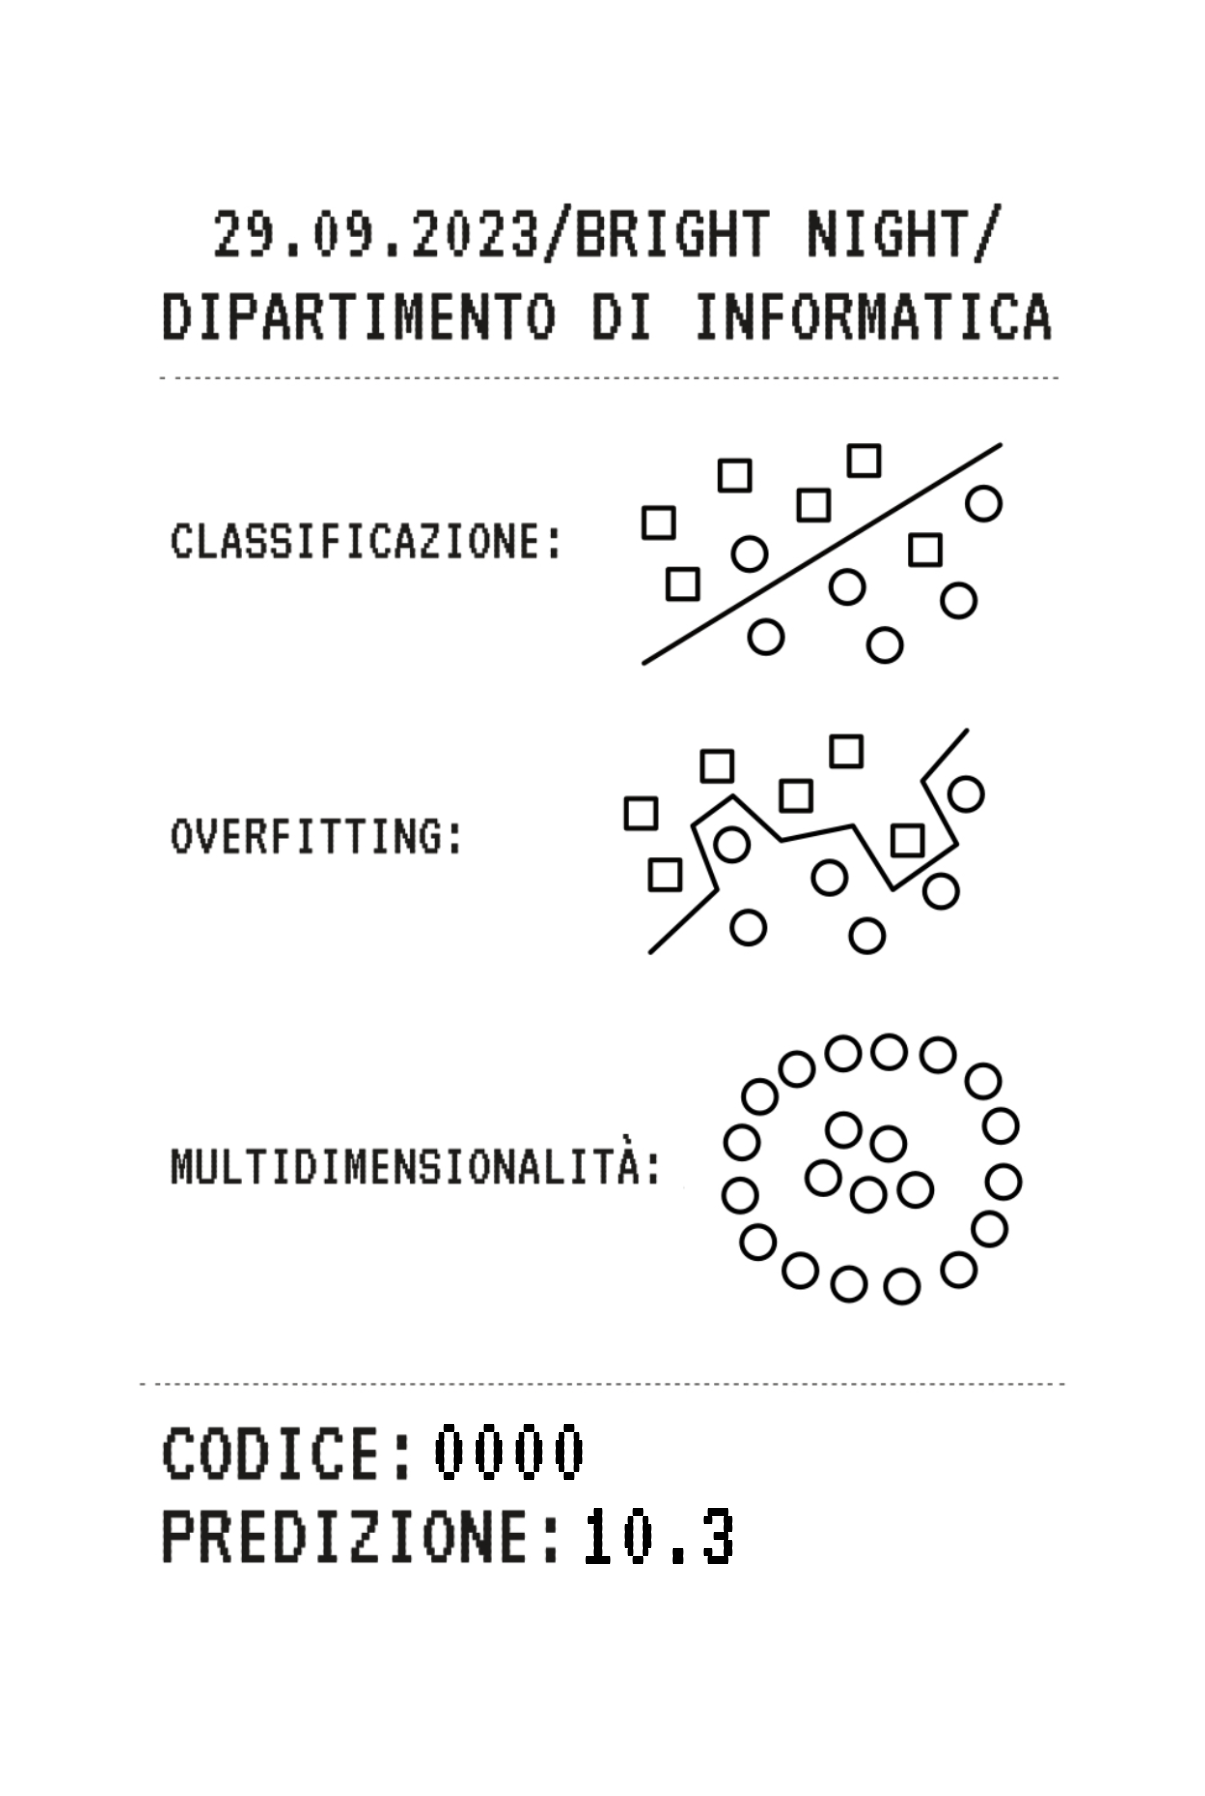
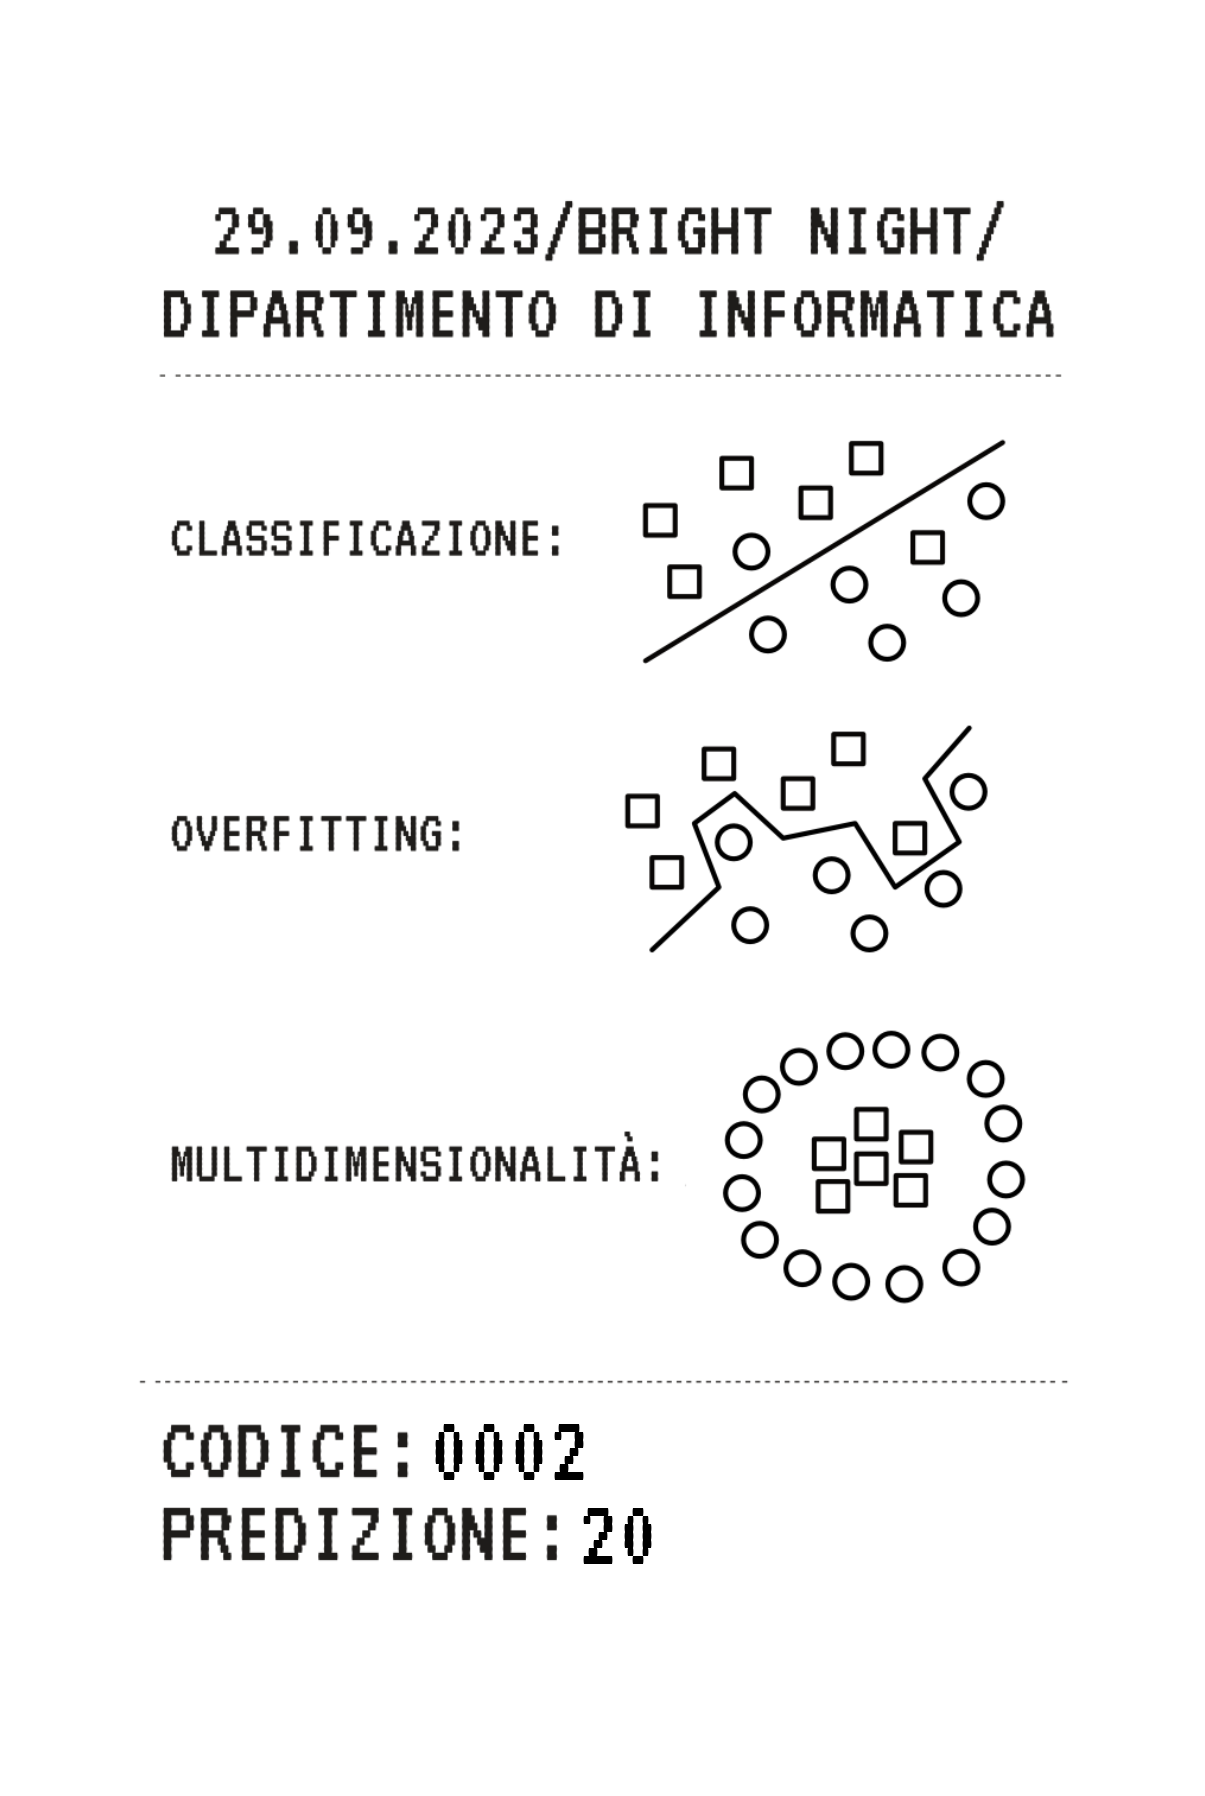
added backup file

diff --git a/utils/print.py b/utils/print.py
@@ -1,5 +1,4 @@
-import datetime
-import time
+import os
 import cups  # if using rpi pip uninstall pycups and pip install cups
 
 # import RPi.GPIO as GPIO
@@ -13,11 +12,22 @@ printer = printers["Xprinter_XP_420B"]
 # printer = printers['Xprinter-XP-420B']
 
 
+def writeRecord(value, i):
+    # if there is no file create one
+    if not os.path.isfile("records.tsv"):
+        with open("records.tsv", "w") as f:
+            f.write("code\tprediction\n")
+
+    with open("records.tsv", "a") as f:
+        f.write(f"{i}\t{value}\n")
+
+
 def printReceipt(value, i):
     print("printing")
 
     # make i to be 4 digits
     i = str(i).zfill(4)
+    writeRecord(value, i)
 
     base_img = Image.open("scontrino.png")
     im = ImageDraw.Draw(base_img)
